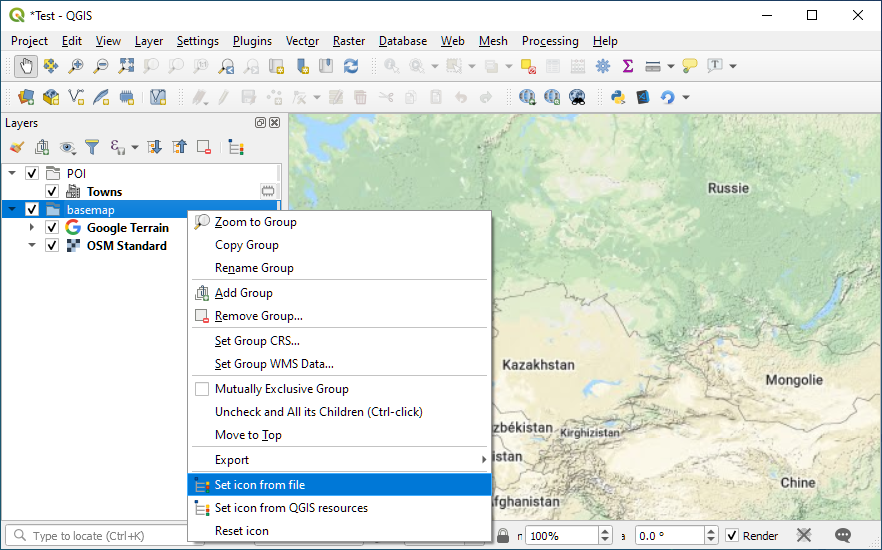
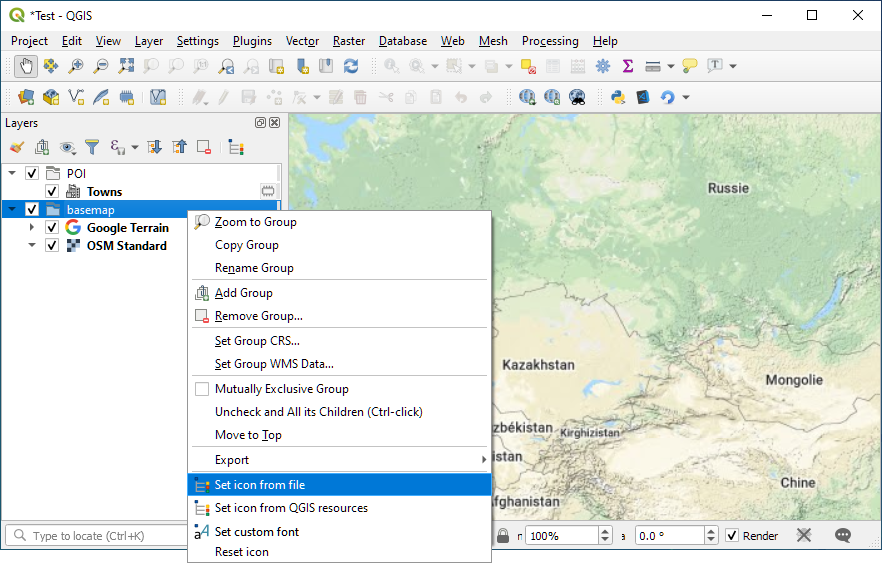
Update Readme & metadata

diff --git a/README.md b/README.md
@@ -2,12 +2,12 @@ Layer Tree Icons (QGIS plugin)
 ===
 ![Icon](./icon.png)
 
-This plugin add an item in the QGIS layer tree context menu to set a custom icon on any node.
+This plugin adds some actions in the QGIS layer tree context menu to set a custom icon and/or font on any node.
 It includes a ressource browser to use QGIS icons. Icons can also be set for a given node type (i.e. group, or polygon layer).
 
 Category Icon
 --
-It is possible to set new icons for node categories, from the plugin menu, or from a new button, added in the Layer Panel toolbar. It is also possible to change the default icon size in this dialog.
+It is possible to set new icons for node categories, from the plugin menu, or from a new button, added in the Layer Panel toolbar. It is also possible to change the default icon size and layer and group fonts in this dialog.
 
 ![Default icons dialog](./docs/default_icons.png)
 
@@ -19,7 +19,8 @@ Custom icons can be set by right-clicking on a node in the Layer Panel.
 
  - **Set icon from file**: Browse the computer to set the node icon from an image file
  - **Set icon from QGIS resources**: Open a Resource Browser to use one of the icons embedded in QGIS
- - **Reset custom icon** (visible if a custom icon is set): Revert to the default icon, or, if defined, to the custom icon for the node's category
+ - **Set custom font**: Open a QFontDialog to set a custom font for tthe currently selected nodes
+ - **Reset icon (& font)** (visible if a custom icon or font is set): Revert to the default icon, or, if defined, to the custom icon for the node's category. Also reset the custom font if an
 
 Resource browser
 --
@@ -38,6 +39,17 @@ iface.layerTreeView().currentNode().setCustomProperty(
     "path/to/icon.png"
 )
 ```
+
+ - Set font a specific node:
+
+```python
+f = QFont("Consolas", 12)
+iface.layerTreeView().currentNode().setCustomProperty(
+    "plugins/customTreeIcon/font",
+    f.toString()
+)
+```
+
  - Set custom icon for an icon type:
 ```python
 # Group
